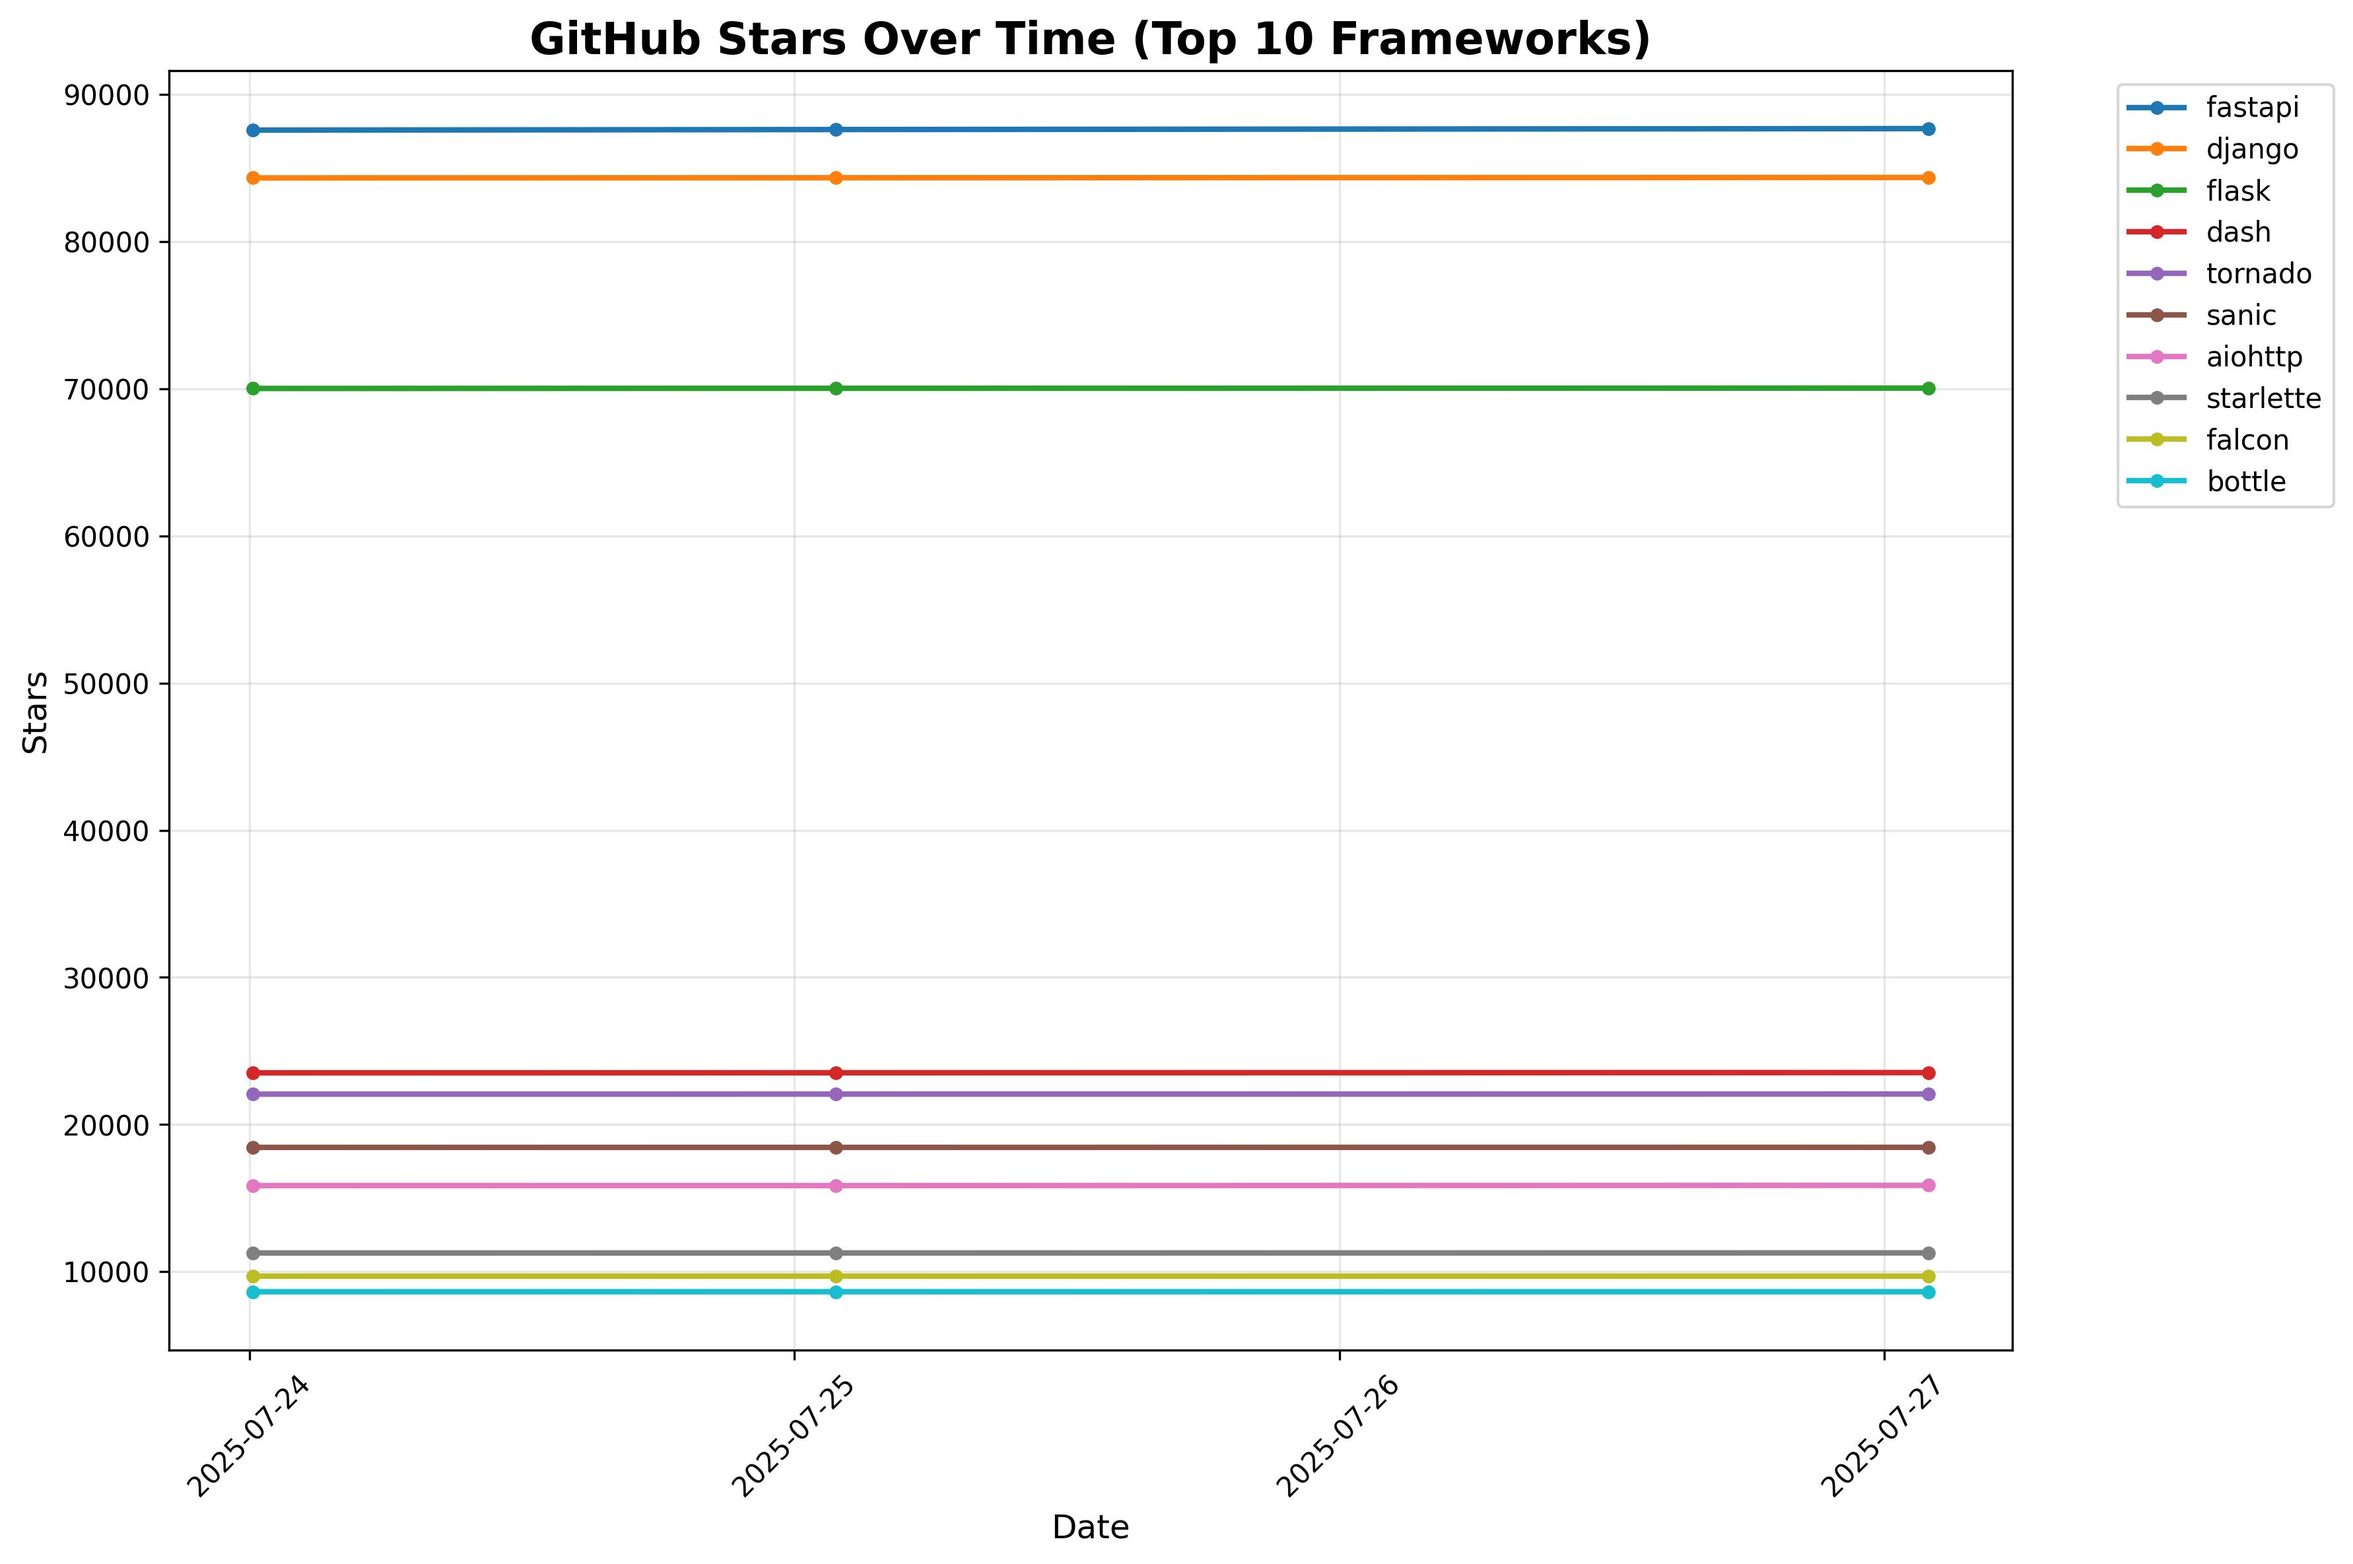
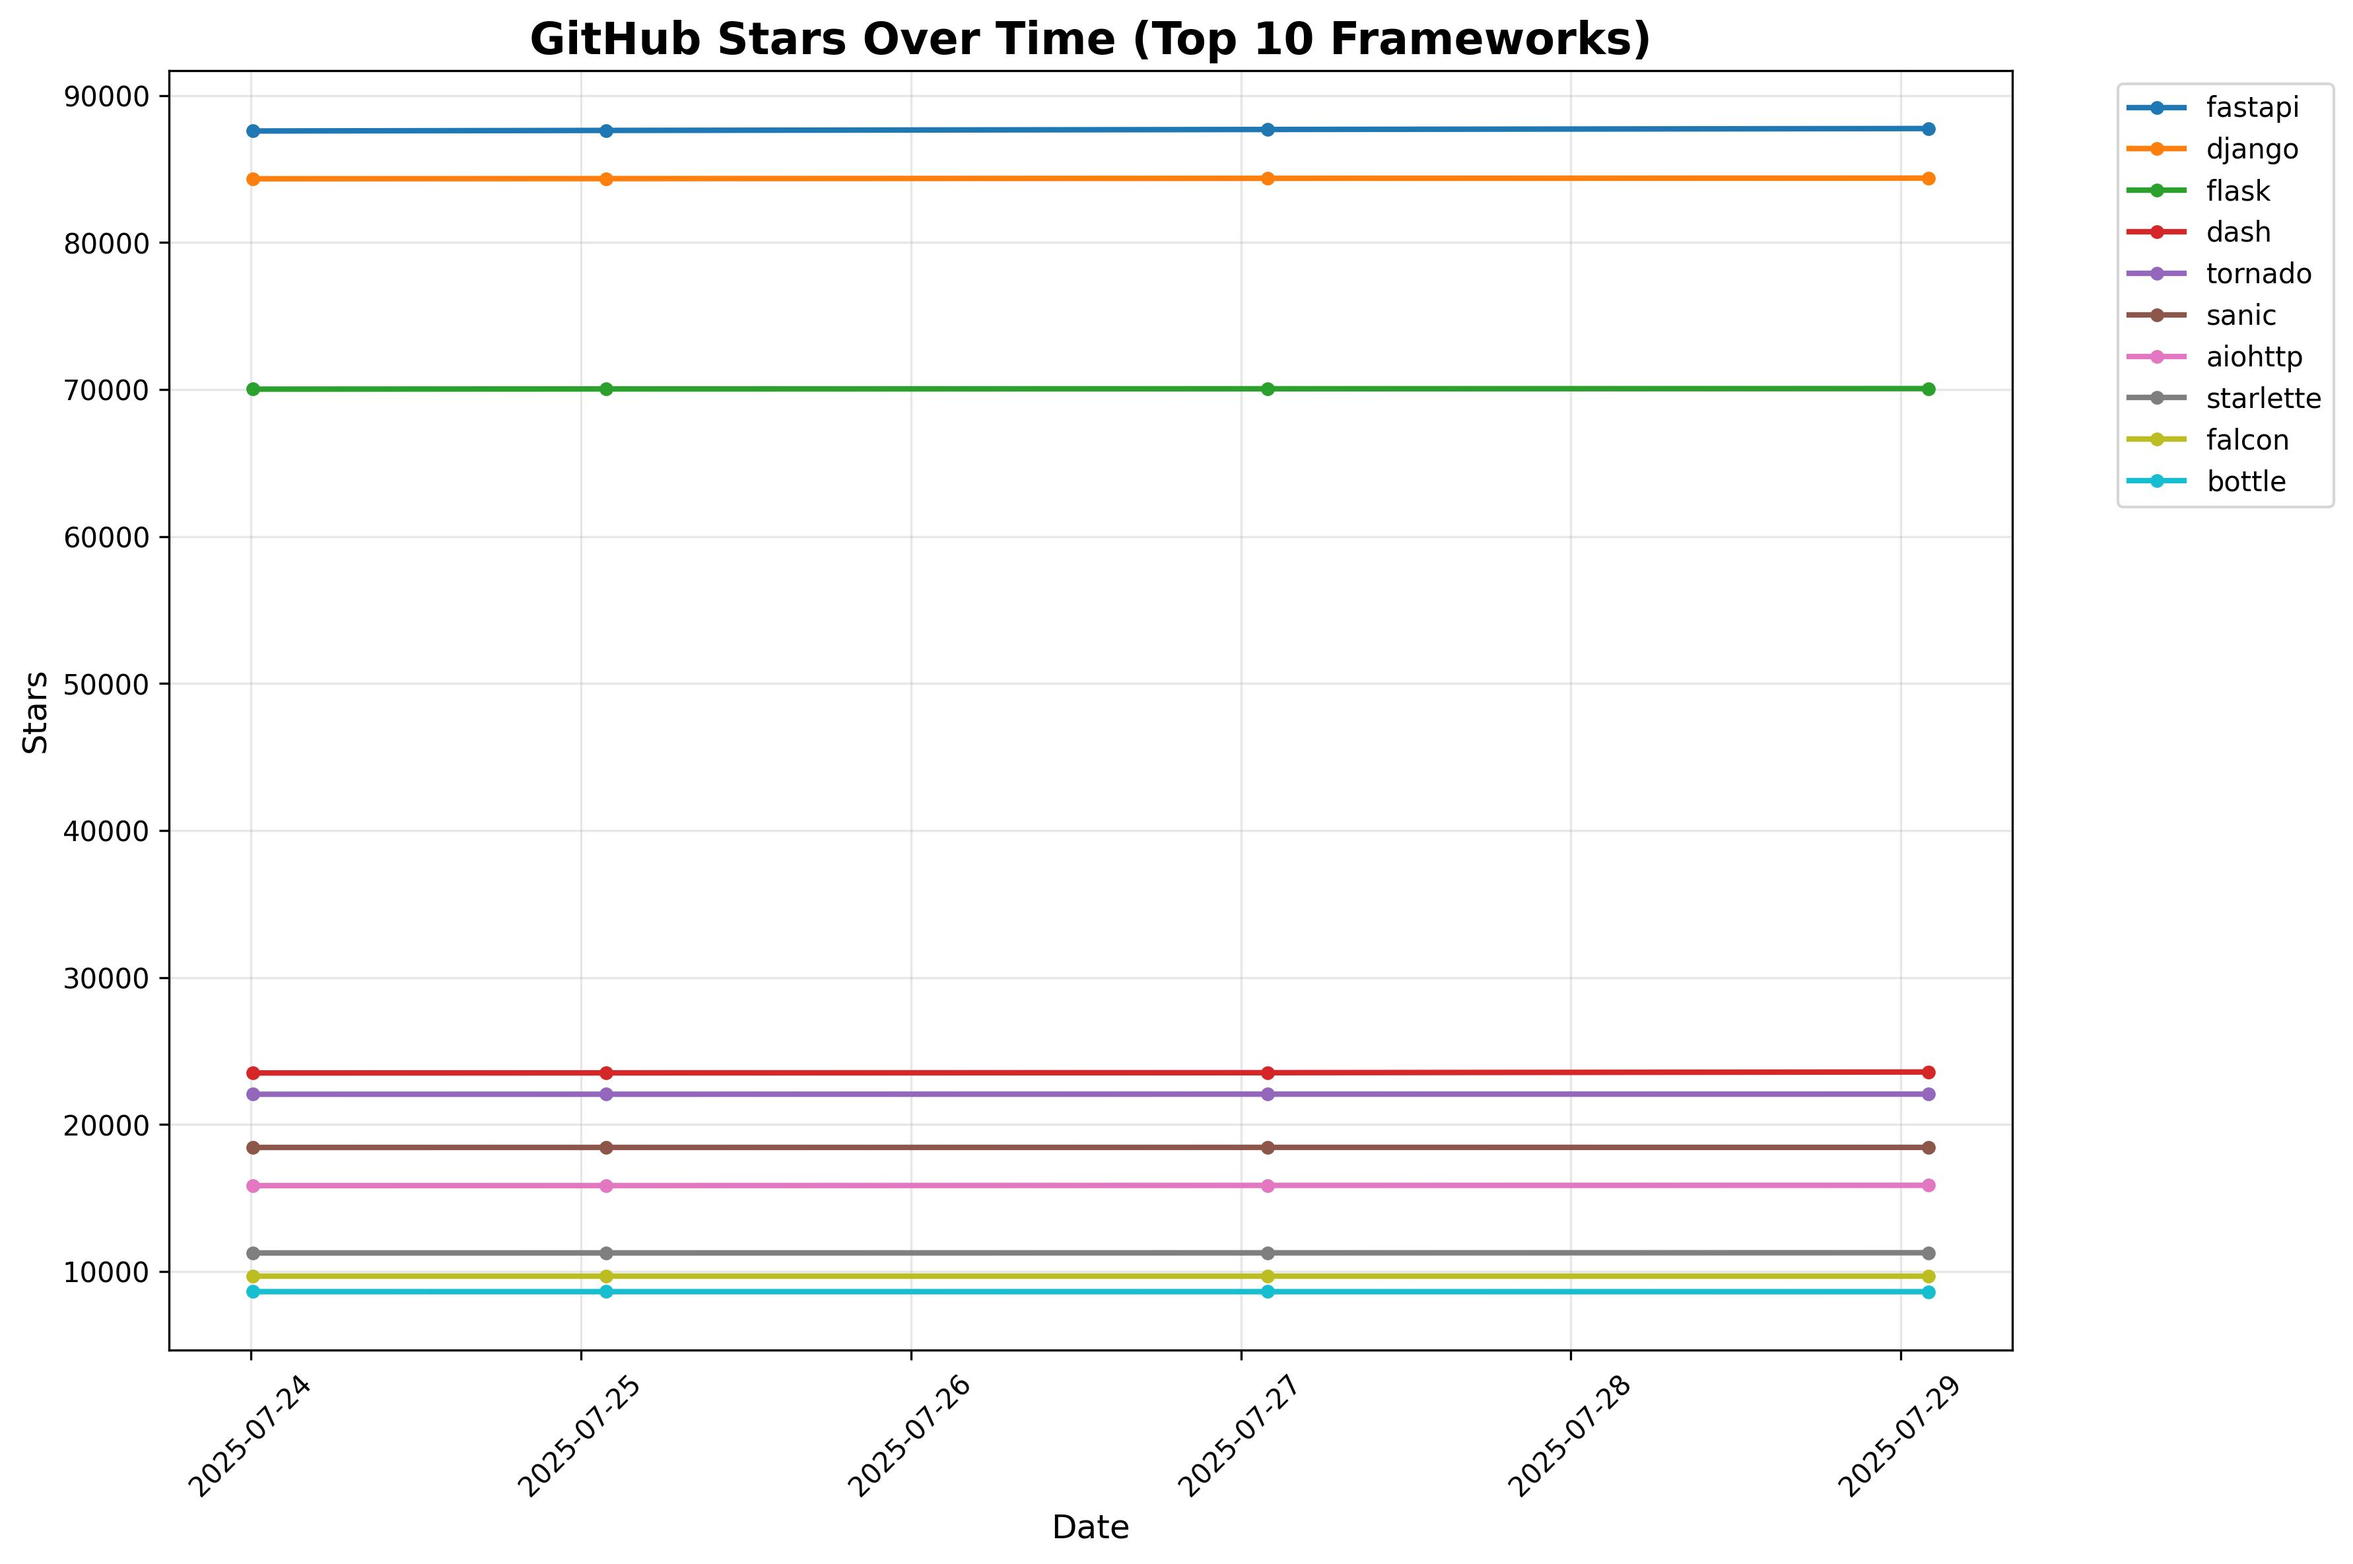
Update framework stars - 2025-07-29 02:01:21 UTC

diff --git a/README.md b/README.md
@@ -7,24 +7,24 @@ A list of popular github projects related to Python web framework (ranked by sta
 
 | Project Name | Stars | Forks | Open Issues | Last Commit |
 | ------------ | ----- | ----- | ----------- | ----------- |
-| [fastapi](https://github.com/fastapi/fastapi) | 87685 | 7647 | 290 | 2025-07-26 21:27:58 |
-| [django](https://github.com/django/django) | 84364 | 32738 | 351 | 2025-07-25 11:59:13 |
-| [flask](https://github.com/pallets/flask) | 70047 | 16504 | 14 | 2025-06-12 20:48:07 |
-| [dash](https://github.com/plotly/dash) | 23528 | 2178 | 540 | 2025-07-18 17:18:35 |
-| [tornado](https://github.com/tornadoweb/tornado) | 22070 | 5532 | 208 | 2025-07-22 20:43:43 |
-| [sanic](https://github.com/sanic-org/sanic) | 18449 | 1575 | 140 | 2025-03-31 21:19:26 |
-| [aiohttp](https://github.com/aio-libs/aiohttp) | 15863 | 2108 | 252 | 2025-07-25 10:50:11 |
-| [starlette](https://github.com/encode/starlette) | 11275 | 1021 | 44 | 2025-07-20 17:29:09 |
+| [fastapi](https://github.com/fastapi/fastapi) | 87750 | 7653 | 296 | 2025-07-28 20:18:19 |
+| [django](https://github.com/django/django) | 84378 | 32740 | 351 | 2025-07-28 19:41:06 |
+| [flask](https://github.com/pallets/flask) | 70060 | 16503 | 15 | 2025-06-12 20:48:07 |
+| [dash](https://github.com/plotly/dash) | 23577 | 2179 | 540 | 2025-07-18 17:18:35 |
+| [tornado](https://github.com/tornadoweb/tornado) | 22071 | 5534 | 210 | 2025-07-22 20:43:43 |
+| [sanic](https://github.com/sanic-org/sanic) | 18450 | 1575 | 140 | 2025-03-31 21:19:26 |
+| [aiohttp](https://github.com/aio-libs/aiohttp) | 15868 | 2110 | 255 | 2025-07-28 22:54:17 |
+| [starlette](https://github.com/encode/starlette) | 11282 | 1022 | 44 | 2025-07-20 17:29:09 |
 | [falcon](https://github.com/falconry/falcon) | 9692 | 960 | 158 | 2025-07-24 06:42:59 |
-| [bottle](https://github.com/bottlepy/bottle) | 8634 | 1485 | 282 | 2025-06-27 10:14:03 |
+| [bottle](https://github.com/bottlepy/bottle) | 8633 | 1485 | 282 | 2025-06-27 10:14:03 |
 | [hug](https://github.com/hugapi/hug) | 6893 | 389 | 187 | 2023-06-30 13:14:01 |
 | [eve](https://github.com/pyeve/eve) | 6731 | 745 | 29 | 2025-06-03 13:00:09 |
-| [vibora](https://github.com/vibora-io/vibora) | 5639 | 301 | 140 | 2019-02-11 10:54:12 |
+| [vibora](https://github.com/vibora-io/vibora) | 5638 | 301 | 140 | 2019-02-11 10:54:12 |
 | [pyramid](https://github.com/Pylons/pyramid) | 4039 | 889 | 82 | 2024-12-20 23:21:35 |
-| [quart](https://github.com/pallets/quart) | 3370 | 184 | 62 | 2025-06-12 21:05:35 |
+| [quart](https://github.com/pallets/quart) | 3372 | 184 | 62 | 2025-06-12 21:05:35 |
 | [masonite](https://github.com/MasoniteFramework/masonite) | 2292 | 130 | 20 | 2025-03-20 20:11:49 |
 | [web2py](https://github.com/web2py/web2py) | 2151 | 907 | 369 | 2025-07-14 00:48:47 |
-| [cherrypy](https://github.com/cherrypy/cherrypy) | 1913 | 369 | 259 | 2025-07-04 16:22:41 |
+| [cherrypy](https://github.com/cherrypy/cherrypy) | 1915 | 369 | 259 | 2025-07-04 16:22:41 |
 | [tg2](https://github.com/TurboGears/tg2) | 811 | 80 | 12 | 2025-02-18 22:52:59 |
 | [Growler](https://github.com/pyGrowler/Growler) | 688 | 21 | 5 | 2020-03-08 07:51:41 |
 | [morepath](https://github.com/morepath/morepath) | 396 | 37 | 77 | 2022-05-29 18:09:39 |
@@ -41,4 +41,4 @@ A list of popular github projects related to Python web framework (ranked by sta
 *Charts show the top 10 frameworks by current star count*
 
 
-*Last Automatic Update: 2025-07-27T01:57:48*
+*Last Automatic Update: 2025-07-29T02:01:18*
